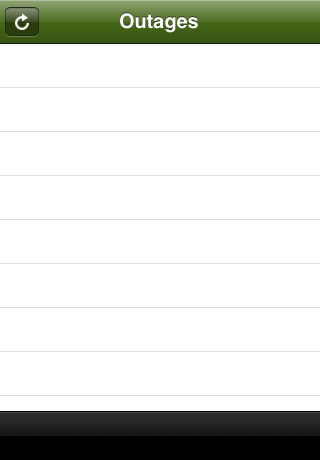
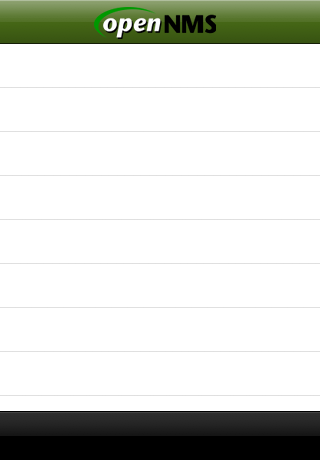
New startup image, set selected view item bg color consistently

Changed region(s): [[0.2812, 0.0, 0.6875, 0.0913], [0.0, 0.0, 0.125, 0.0913]]

diff --git a/Classes/Controllers/NodeListController.m b/Classes/Controllers/NodeListController.m
@@ -110,9 +110,8 @@
 
 	// Set the selected color.
 	UIView* backgroundView = [[[UIView alloc] init] autorelease];
-	backgroundView.backgroundColor = [UIColor colorWithWhite:0.9333333 alpha:1.0];
+	backgroundView.backgroundColor = [UIColor colorWithRed:0.1 green:0.0 blue:1.0 alpha:0.75];
 	cell.selectedBackgroundView = backgroundView;
-	cell.textLabel.highlightedTextColor = [UIColor colorWithWhite:0.0 alpha:1.0];
 	
 	/*
 	 If the requesting table view is the search display controller's table view, configure the cell using the filtered content, otherwise use the main list.

diff --git a/Classes/Controllers/AlarmListController.m b/Classes/Controllers/AlarmListController.m
@@ -141,7 +141,7 @@
 	ColumnarTableViewCell* cell = [[[ColumnarTableViewCell alloc] initWithFrame:CGRectZero] autorelease];
 
 	UIView* backgroundView = [[[UIView alloc] init] autorelease];
-	backgroundView.backgroundColor = [UIColor colorWithWhite:0.9333333 alpha:1.0];
+	backgroundView.backgroundColor = [UIColor colorWithRed:0.1 green:0.0 blue:1.0 alpha:0.75];
 	cell.selectedBackgroundView = backgroundView;
 	
 	if ([self.alarmList count] > 0) {

diff --git a/Classes/Controllers/OutageListController.m b/Classes/Controllers/OutageListController.m
@@ -116,7 +116,7 @@
 
 	// Set the selected color.
 	UIView* backgroundView = [[[UIView alloc] init] autorelease];
-	backgroundView.backgroundColor = [UIColor colorWithWhite:0.9333333 alpha:1.0];
+	backgroundView.backgroundColor = [UIColor colorWithRed:0.1 green:0.0 blue:1.0 alpha:0.75];
 	cell.selectedBackgroundView = backgroundView;
 
 	if ([self.outageList count] > 0) {
